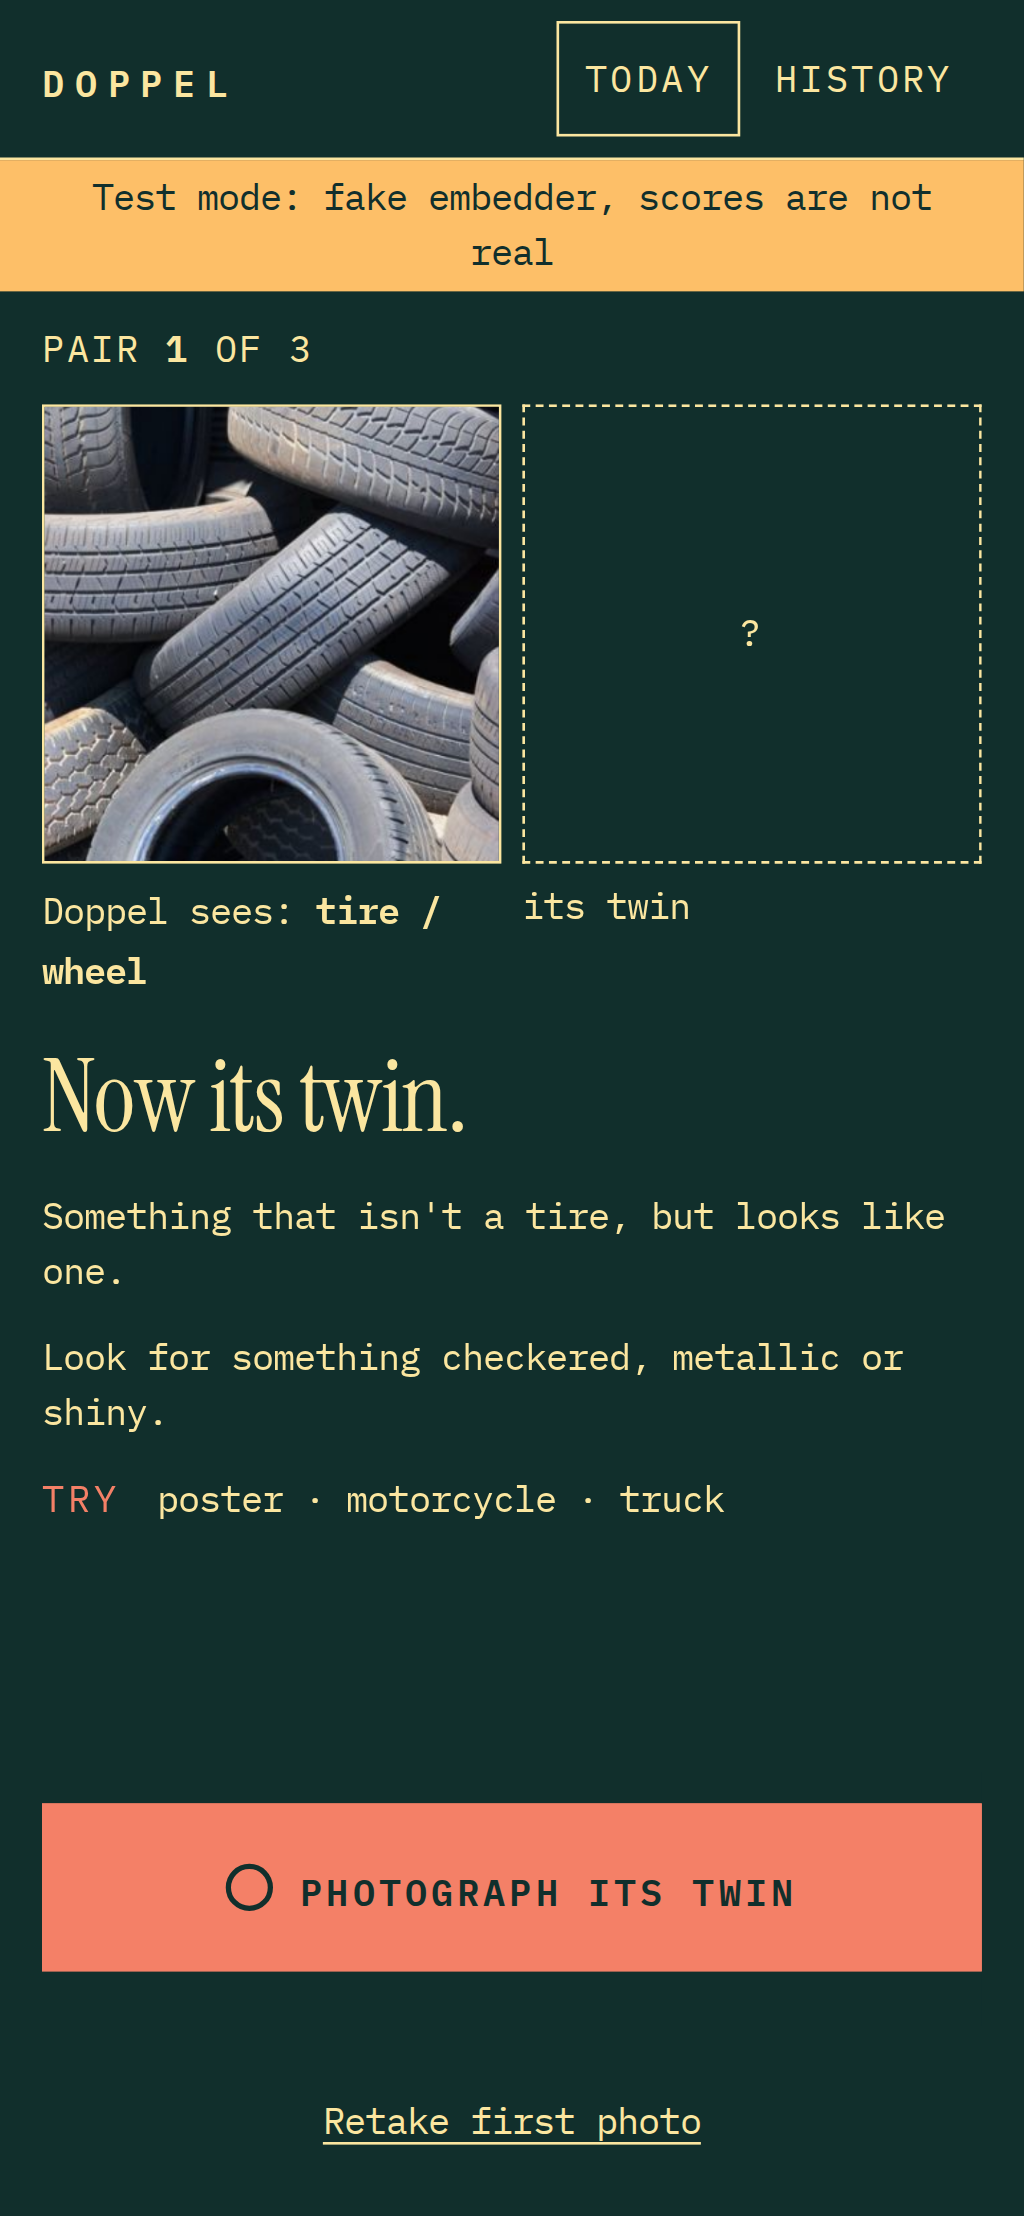
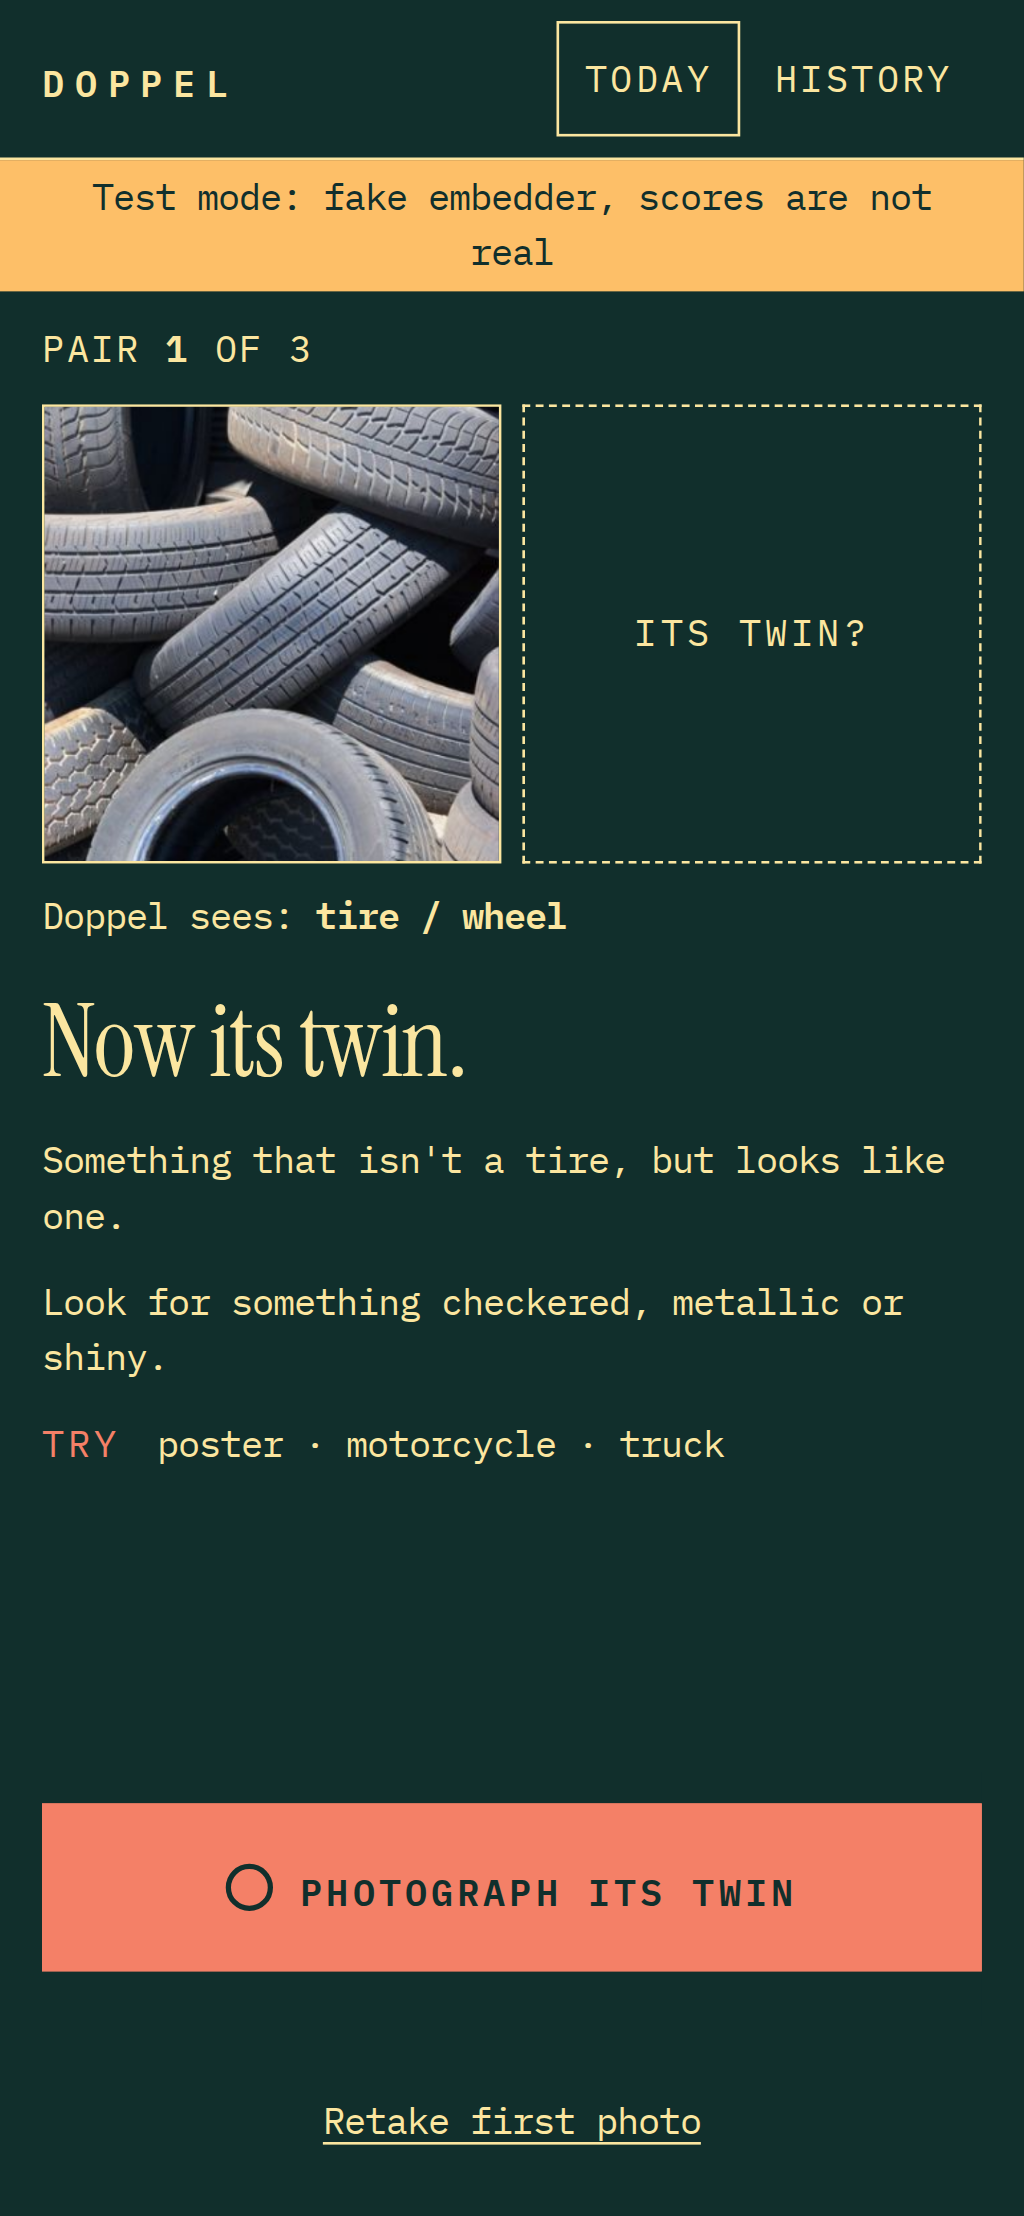
Playtest #3: Doppel sees on one full-width line

diff --git a/web/src/ui/screens.ts b/web/src/ui/screens.ts
@@ -30,7 +30,7 @@ export const bandMarks = (b: Band) => {
 const slot = (side: "a" | "b", inner: string, caption = "") => `
   <figure class="slot ${side}">
     <div class="frame">${inner}</div>
-    <figcaption>${caption}</figcaption>
+    ${caption ? `<figcaption>${caption}</figcaption>` : ""}
   </figure>`;
 
 /** A print over its original photo. Press and hold (or hold Space/Enter) shows the photo. */
@@ -126,9 +126,10 @@ export function walkView(pair: number, label: string, w: WalkStatus, looks: stri
     <section class="screen walk" aria-label="Walk">
       ${hud(pair, `${w.meters} M WALKED`)}
       <div class="pair">
-        ${slot("a", `<canvas id="photo-a" aria-label="Your first photo"></canvas>`, sees(label, alt))}
-        ${slot("b", `<div class="countdown">${walkReadout(w)}</div>`, "its twin")}
+        ${slot("a", `<canvas id="photo-a" aria-label="Your first photo"></canvas>`)}
+        ${slot("b", `<div class="countdown">${walkReadout(w)}</div>`)}
       </div>
+      <p class="sees">${sees(label, alt)}</p>
       <h1 class="voice">${again ? "Find another twin. Walk." : "Find its twin. Walk."}</h1>
       <p class="sub">${esc(notButLike(label))} Phone in your pocket until then.</p>
       ${lookFor(looks)}
@@ -153,9 +154,10 @@ export function twinView(pair: number, label: string, looks: string[] = [], alt?
     <section class="screen twin" aria-label="Twin photo">
       ${hud(pair)}
       <div class="pair">
-        ${slot("a", `<canvas id="photo-a" aria-label="Your first photo"></canvas>`, sees(label, alt))}
-        ${slot("b", `<span class="slot-word">?</span>`, "its twin")}
+        ${slot("a", `<canvas id="photo-a" aria-label="Your first photo"></canvas>`)}
+        ${slot("b", `<span class="slot-word">its twin?</span>`)}
       </div>
+      <p class="sees">${sees(label, alt)}</p>
       <h1 class="voice">${again ? "Now another twin." : "Now its twin."}</h1>
       <p class="sub">${esc(notButLike(label))}</p>
       ${lookFor(looks)}

diff --git a/web/src/style.css b/web/src/style.css
@@ -67,6 +67,7 @@ main { max-width: 520px; margin: 0 auto; padding: 0 var(--gutter); outline: none
 .slot-word { line-height: 1.5; letter-spacing: .14em; text-transform: uppercase; }
 .pair.empty .frame, .slot.b .frame:not(:has(canvas)) { border-style: dashed; }
 .pair.empty .slot.a .frame { border-style: solid; }
+.sees { margin: 8px 0 0; overflow-wrap: anywhere; }
 .countdown { display: flex; flex-direction: column; align-items: center; gap: 4px; line-height: 1.1; text-align: center; padding: 8px; }
 .countdown .big { font-size: var(--t-l); font-weight: 600; font-variant-numeric: tabular-nums; }
 

diff --git a/docs/eval.md b/docs/eval.md
@@ -2,7 +2,7 @@
 
 Real EmbeddingGemma 2 (text+vision 440M, LiteRT-LM, WebGPU) in headless Microsoft Edge on amd gcn-5, over the CC0 fixtures in `web/tests/fixtures/`, judged by the functions the app ships (`web/src/twin.ts`, constants in `data/twin-scoring.json`). Generated by `npm run test:model` (`web/scripts/model-eval.mjs`).
 
-Commit `8b9057c`, 2026-10-11 06:17 UTC.
+Commit `ed58684`, 2026-10-11 06:24 UTC.
 
 ## Pass criteria
 
@@ -84,6 +84,6 @@ Commit `8b9057c`, 2026-10-11 06:17 UTC.
 
 ## Timings (same run, not CPU-throttled)
 
-- Model load from the browser cache: 6503 ms
-- Photo embed: median 1734 ms, max 1834 ms over 44 photos
-- Main-thread long tasks while embedding 44 photos: 1, longest 190 ms, total 190 ms
+- Model load from the browser cache: 7926 ms
+- Photo embed: median 1721 ms, max 1902 ms over 44 photos
+- Main-thread long tasks while embedding 44 photos: 1, longest 453 ms, total 453 ms
